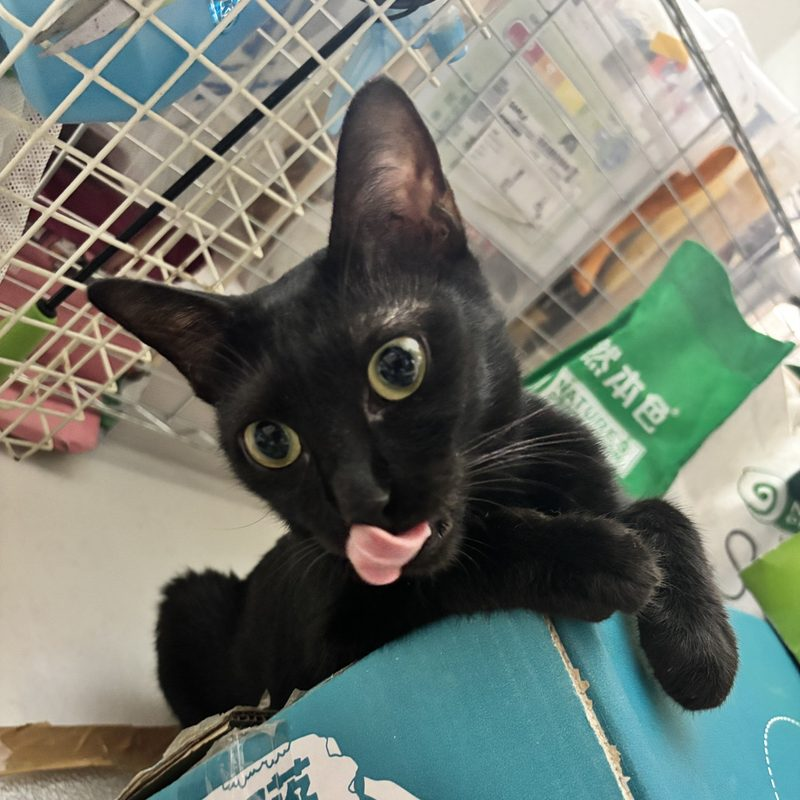
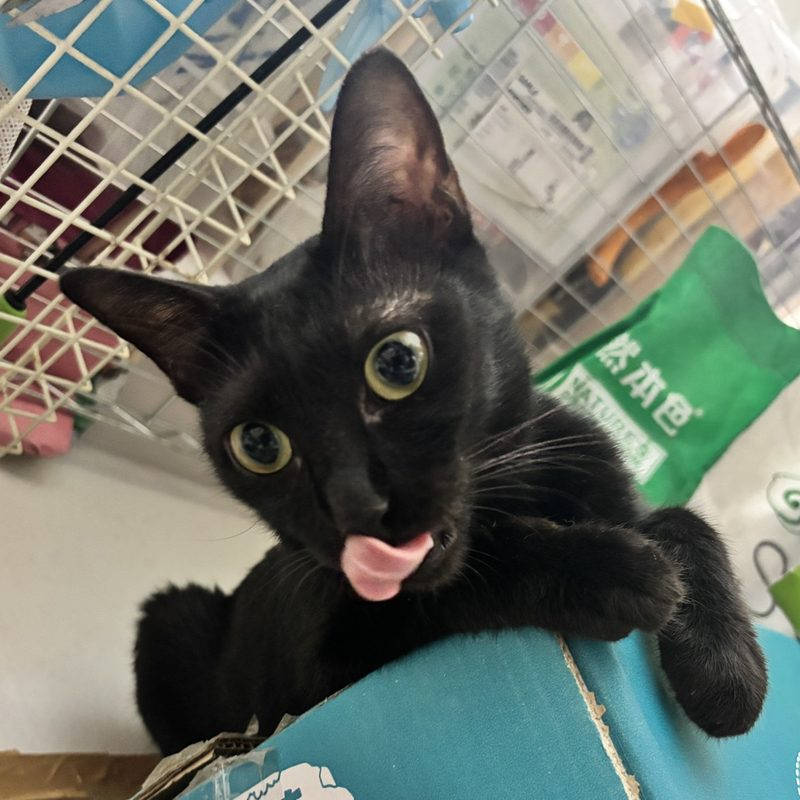
照片拉近、影片封面改回 YouTube 縮圖、手機版相框可點擊
- 14 張照片依貓咪位置重新裁切，貓咪佔畫面更大（仍不含 EXIF）
- 影片封面改回影片在 YouTube 上的縮圖，可用 videoCover 覆寫
- 手機點一下照片＝電腦滑鼠移過去的效果；照片進場有蹦出動畫
- 修正小相框照片被擠小：padding 百分比是照拼貼區寬度算，
  改用照片 margin 做留邊，大小相框比例一致
- 照片改由本身維持正方形，避免 iPhone Safari 排版不一致

diff --git a/assets/style.css b/assets/style.css
@@ -676,18 +676,23 @@ body[class*="theme-"] .cat-sheet {
 .pf-item {
   position: absolute;
   margin: 0;
-  aspect-ratio: 1;
-  padding: 9.5%;                    /* 相框的奶油色留邊 */
+  padding: 0;
   background: url("../images/frame-scallop.svg?v=68725538") center / 100% 100% no-repeat;
   filter: drop-shadow(0 5px 10px rgba(74, 29, 12, .16));
   transform: rotate(var(--r, 0deg));
   transition: transform .25s ease;
 }
+/* 相框的奶油色留邊用照片的 margin 來做，不用外框的 padding。
+   原因：CSS 的 padding 百分比是照「整個拼貼區」的寬度算，不是照相框自己，
+   結果小相框的邊框跟大相框一樣厚，照片被擠得很小（手機上只剩 88px）。
+   照片的 margin 百分比則是照相框的寬度算，大小相框的邊框比例就一致了。 */
 .pf-item img,
 .pf-empty {
   display: block;
-  width: 100%;
-  height: 100%;
+  width: 84%;
+  margin: 8%;
+  height: auto;
+  aspect-ratio: 1 / 1;      /* 照片本身就是正方形，外框跟著它長 */
   object-fit: cover;
   border-radius: 3px;
 }
@@ -700,6 +705,9 @@ body[class*="theme-"] .cat-sheet {
 @media (hover: hover) {
   .pf-item:hover { transform: rotate(0deg) scale(1.04); z-index: 6; }
 }
+/* 手機沒有滑鼠，改成「點一下」觸發同樣的效果（class 由 site.js 加上） */
+.pf-item.is-active { transform: rotate(0deg) scale(1.08); z-index: 6; }
+.pf-item { cursor: pointer; -webkit-tap-highlight-color: transparent; }
 
 /* 1 張：一張大的，微微歪 */
 .pf-1 .a { width: 82%; left: 9%; top: 4%; --r: -3deg; }
@@ -740,8 +748,31 @@ body[class*="theme-"] .cat-sheet {
 .pf-3 .h1 { width: 11%; top: 1%;  left: 8%;   transform: rotate(-10deg); }
 .pf-3 .h2 { width: 8%;  top: 4%;  left: 24%;  transform: rotate(14deg); }
 
+/* 一打開頁面，照片一張接一張「蹦」進來，最後停在微微歪斜的位置 */
+@keyframes pf-pop {
+  0%   { opacity: 0; transform: rotate(calc(var(--r, 0deg) + 14deg)) scale(.6); }
+  65%  { opacity: 1; transform: rotate(calc(var(--r, 0deg) - 4deg)) scale(1.05); }
+  100% { opacity: 1; transform: rotate(var(--r, 0deg)) scale(1); }
+}
+/* backwards：動畫只負責「開場」，結束後就把控制權還給 hover 和點一下的效果。
+   如果用 both／forwards，動畫最後一格會一直卡著，滑過去就不會動了。 */
+.pf-item { animation: pf-pop .6s cubic-bezier(.3, 1.3, .5, 1) backwards; }
+.pf-item:nth-of-type(2) { animation-delay: .12s; }
+.pf-item:nth-of-type(3) { animation-delay: .24s; }
+.pf-row .pf-item:nth-of-type(1) { animation-delay: .36s; }
+.pf-row .pf-item:nth-of-type(2) { animation-delay: .48s; }
+
+/* 愛心輕輕跳動 */
+@keyframes pf-beat {
+  0%, 100% { scale: 1; }
+  50%      { scale: 1.15; }
+}
+.pf-heart { animation: pf-beat 2.4s ease-in-out infinite; }
+.pf-heart.h2 { animation-delay: .6s; }
+
 @media (prefers-reduced-motion: reduce) {
-  .pf-item { transition: none; }
+  .pf-item { transition: none; animation: none; }
+  .pf-heart { animation: none; }
 }
 
 /* ===========================================================

diff --git a/assets/site.js b/assets/site.js
@@ -181,13 +181,13 @@ function videoBlock(item) {
   if (!id) return '';
   // Shorts 是直式影片，播放框要跟著直式，不然左右會是一片黑
   var isShort = /\/shorts\//.test(String(item.video));
-  // 封面優先用貓咪自己的照片；沒照片才用 YouTube 縮圖。
+  // 封面用影片自己在 YouTube 上的縮圖——影片的封面就該是影片的畫面。
+  // （想換成別張圖的話，在 cats.js 填 videoCover，例如 "cats/sher-1.jpg"）
   // YouTube 縮圖先抓高畫質版（1280×720），抓不到時 onerror 自動退回標準版，
   // 因為標準版只有 480×360，放進直式框會糊。
   var yt = 'https://img.youtube.com/vi/' + id + '/';
-  var coverPhoto = photosOf(item)[0];
-  var cover = coverPhoto
-    ? '<img class="video-cover" src="images/' + coverPhoto + '" alt="">'
+  var cover = item.videoCover
+    ? '<img class="video-cover" src="images/' + item.videoCover + '" alt="">'
     : '<img class="video-cover" src="' + yt + 'maxresdefault.jpg" alt="" ' +
       'onerror="this.onerror=null;this.src=\'' + yt + 'hqdefault.jpg\'">';
   return '' +
@@ -250,6 +250,17 @@ function photoCollage(cat) {
   }).join('');
   return main + '<div class="pf-row">' + rest + '</div>';
 }
+
+// 手機沒有滑鼠：點一下照片 = 電腦上滑鼠移過去的效果（擺正、放大、浮上來）。
+// 點同一張會收回，點別張就換那張，點照片以外的地方全部收回。
+document.addEventListener('click', function (e) {
+  var item = e.target.closest ? e.target.closest('.pf-item') : null;
+  var active = document.querySelectorAll('.pf-item.is-active');
+  for (var i = 0; i < active.length; i++) {
+    if (active[i] !== item) active[i].classList.remove('is-active');
+  }
+  if (item) item.classList.toggle('is-active');
+});
 
 /* ---------- 3. 單隻貓的詳細頁 ---------- */
 function initCatDetail() {

diff --git a/games.html b/games.html
@@ -15,7 +15,7 @@
 <!-- 製作中，先不讓搜尋引擎收錄。正式上線時刪掉下面這一行。 -->
 <meta name="robots" content="noindex, nofollow">
 <link rel="icon" href="images/favicon.png?v=e05dc69b" type="image/png">
-<link rel="stylesheet" href="assets/style.css?v=6b002b5b">
+<link rel="stylesheet" href="assets/style.css?v=27a23b7f">
 </head>
 <body>
 
@@ -120,6 +120,6 @@
 <script src="data/games.js?v=b3bd0108"></script>
 <script src="data/news.js?v=3a98b0ab"></script>
 <script src="data/tips.js?v=6115ada7"></script>
-<script src="assets/site.js?v=7b0c7a6c"></script>
+<script src="assets/site.js?v=5dc7c255"></script>
 </body>
 </html>

diff --git a/index.html b/index.html
@@ -15,7 +15,7 @@
 <!-- 製作中，先不讓搜尋引擎收錄。正式上線時刪掉下面這一行。 -->
 <meta name="robots" content="noindex, nofollow">
 <link rel="icon" href="images/favicon.png?v=e05dc69b" type="image/png">
-<link rel="stylesheet" href="assets/style.css?v=6b002b5b">
+<link rel="stylesheet" href="assets/style.css?v=27a23b7f">
 </head>
 <body>
 
@@ -203,6 +203,6 @@
 <script src="data/news.js?v=3a98b0ab"></script>
 <script src="data/tips.js?v=6115ada7"></script>
 <script src="data/games.js?v=b3bd0108"></script>
-<script src="assets/site.js?v=7b0c7a6c"></script>
+<script src="assets/site.js?v=5dc7c255"></script>
 </body>
 </html>

diff --git a/tips.html b/tips.html
@@ -15,7 +15,7 @@
 <!-- 製作中，先不讓搜尋引擎收錄。正式上線時刪掉下面這一行。 -->
 <meta name="robots" content="noindex, nofollow">
 <link rel="icon" href="images/favicon.png?v=e05dc69b" type="image/png">
-<link rel="stylesheet" href="assets/style.css?v=6b002b5b">
+<link rel="stylesheet" href="assets/style.css?v=27a23b7f">
 </head>
 <body>
 
@@ -114,6 +114,6 @@
 <script src="data/cats.js?v=cf43fdf7"></script>
 <script src="data/tips.js?v=6115ada7"></script>
 <script src="data/games.js?v=b3bd0108"></script>
-<script src="assets/site.js?v=7b0c7a6c"></script>
+<script src="assets/site.js?v=5dc7c255"></script>
 </body>
 </html>

diff --git a/news.html b/news.html
@@ -15,7 +15,7 @@
 <!-- 製作中，先不讓搜尋引擎收錄。正式上線時刪掉下面這一行。 -->
 <meta name="robots" content="noindex, nofollow">
 <link rel="icon" href="images/favicon.png?v=e05dc69b" type="image/png">
-<link rel="stylesheet" href="assets/style.css?v=6b002b5b">
+<link rel="stylesheet" href="assets/style.css?v=27a23b7f">
 </head>
 <body>
 
@@ -108,6 +108,6 @@
 
 <script src="data/cats.js?v=cf43fdf7"></script>
 <script src="data/news.js?v=3a98b0ab"></script>
-<script src="assets/site.js?v=7b0c7a6c"></script>
+<script src="assets/site.js?v=5dc7c255"></script>
 </body>
 </html>

diff --git a/shop.html b/shop.html
@@ -15,7 +15,7 @@
 <!-- 製作中，先不讓搜尋引擎收錄。正式上線時刪掉下面這一行。 -->
 <meta name="robots" content="noindex, nofollow">
 <link rel="icon" href="images/favicon.png?v=e05dc69b" type="image/png">
-<link rel="stylesheet" href="assets/style.css?v=6b002b5b">
+<link rel="stylesheet" href="assets/style.css?v=27a23b7f">
 </head>
 <body>
 
@@ -112,6 +112,6 @@
 
 <script src="data/cats.js?v=cf43fdf7"></script>
 <script src="data/shop.js?v=f6c32ecd"></script>
-<script src="assets/site.js?v=7b0c7a6c"></script>
+<script src="assets/site.js?v=5dc7c255"></script>
 </body>
 </html>

diff --git a/tip.html b/tip.html
@@ -15,7 +15,7 @@
 <!-- 製作中，先不讓搜尋引擎收錄。正式上線時刪掉下面這一行。 -->
 <meta name="robots" content="noindex, nofollow">
 <link rel="icon" href="images/favicon.png?v=e05dc69b" type="image/png">
-<link rel="stylesheet" href="assets/style.css?v=6b002b5b">
+<link rel="stylesheet" href="assets/style.css?v=27a23b7f">
 </head>
 <body>
 
@@ -98,6 +98,6 @@
 
 <script src="data/cats.js?v=cf43fdf7"></script>
 <script src="data/tips.js?v=6115ada7"></script>
-<script src="assets/site.js?v=7b0c7a6c"></script>
+<script src="assets/site.js?v=5dc7c255"></script>
 </body>
 </html>

diff --git a/about.html b/about.html
@@ -15,7 +15,7 @@
 <!-- 製作中，先不讓搜尋引擎收錄。正式上線時刪掉下面這一行。 -->
 <meta name="robots" content="noindex, nofollow">
 <link rel="icon" href="images/favicon.png?v=e05dc69b" type="image/png">
-<link rel="stylesheet" href="assets/style.css?v=6b002b5b">
+<link rel="stylesheet" href="assets/style.css?v=27a23b7f">
 </head>
 <body>
 
@@ -136,6 +136,6 @@
 </footer>
 
 <script src="data/cats.js?v=cf43fdf7"></script>
-<script src="assets/site.js?v=7b0c7a6c"></script>
+<script src="assets/site.js?v=5dc7c255"></script>
 </body>
 </html>

diff --git a/adopt.html b/adopt.html
@@ -15,7 +15,7 @@
 <!-- 製作中，先不讓搜尋引擎收錄。正式上線時刪掉下面這一行。 -->
 <meta name="robots" content="noindex, nofollow">
 <link rel="icon" href="images/favicon.png?v=e05dc69b" type="image/png">
-<link rel="stylesheet" href="assets/style.css?v=6b002b5b">
+<link rel="stylesheet" href="assets/style.css?v=27a23b7f">
 </head>
 <body>
 
@@ -119,6 +119,6 @@
 </footer>
 
 <script src="data/cats.js?v=cf43fdf7"></script>
-<script src="assets/site.js?v=7b0c7a6c"></script>
+<script src="assets/site.js?v=5dc7c255"></script>
 </body>
 </html>

diff --git a/adopted.html b/adopted.html
@@ -15,7 +15,7 @@
 <!-- 製作中，先不讓搜尋引擎收錄。正式上線時刪掉下面這一行。 -->
 <meta name="robots" content="noindex, nofollow">
 <link rel="icon" href="images/favicon.png?v=e05dc69b" type="image/png">
-<link rel="stylesheet" href="assets/style.css?v=6b002b5b">
+<link rel="stylesheet" href="assets/style.css?v=27a23b7f">
 </head>
 <body>
 
@@ -110,6 +110,6 @@
 </footer>
 
 <script src="data/cats.js?v=cf43fdf7"></script>
-<script src="assets/site.js?v=7b0c7a6c"></script>
+<script src="assets/site.js?v=5dc7c255"></script>
 </body>
 </html>

diff --git a/cats.html b/cats.html
@@ -15,7 +15,7 @@
 <!-- 製作中，先不讓搜尋引擎收錄。正式上線時刪掉下面這一行。 -->
 <meta name="robots" content="noindex, nofollow">
 <link rel="icon" href="images/favicon.png?v=e05dc69b" type="image/png">
-<link rel="stylesheet" href="assets/style.css?v=6b002b5b">
+<link rel="stylesheet" href="assets/style.css?v=27a23b7f">
 </head>
 <body>
 
@@ -116,6 +116,6 @@
 </footer>
 
 <script src="data/cats.js?v=cf43fdf7"></script>
-<script src="assets/site.js?v=7b0c7a6c"></script>
+<script src="assets/site.js?v=5dc7c255"></script>
 </body>
 </html>
